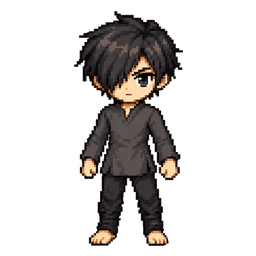
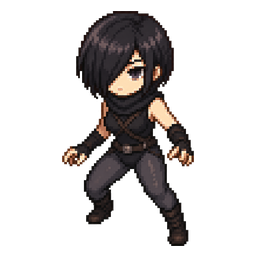
feat(art): cycle 53 — 14 직업 layered body 풀세트 + 성격 재작업
Tier 2 batch 5 완료 + 4 직업 personality 재작업 + 3 신규 직업 body.

추가/재작업된 body (8장):
- berserker (재작업): 광전사 — 야성/근육질/광기 표현
- assassin (재작업): 어쌔신 — 냉혹/은밀 stance
- paladin (재작업): 팔라딘 — 신성광/금발/축복 자세
- shadow-lord (재작업): 그림자 주군 — 적안/암흑 오라
- ranger, rogue (Tier 2 batch 5a 미합본분): 합본
- warlock (신규): 흑마법사 — 보라 마력
- chronomancer (신규): 시간술사 — 은백색/시계 모티프
- grand-mage (신규): 대마법사 — 별빛 후광

LAYERED_MANIFEST.body는 14 직업 전부 등록 (deploy 자동 갱신).
14 직업 = adventurer, archmage, assassin, berserker, chronomancer,
grand-mage, knight, mage, paladin, ranger, rogue, shadow-lord,
warlock, warrior — JOB_SPRITE_SLUG_MAP 전체 커버.

청소 (scripts/_archive/로 이동):
- analyze_avatar_outlines.py
- generate_avatar_equipment_overlays.mjs
- generate_avatar_style_equipment_assets.py
- generate_exact_avatar_style_equipment_items.py
- generate_exact_item_svgs.mjs
- normalize_avatar_outlines.py
모두 cycle 47 layered system 도입 후 사용 안 하는 레거시.

테스트 갱신: tests/layered-character.test.js
14 직업 전부 manifest 상주 시점에 맞춰 폴백/missing 검증을
임시 delete/add 패턴으로 재구성. 544 pass / 0 fail.

Changed region(s): [[0.2188, 0.0312, 0.7812, 0.9688]]

diff --git a/tests/layered-character.test.js b/tests/layered-character.test.js
@@ -20,99 +20,86 @@ test('player가 null/job 없으면 null', () => {
 });
 
 test('body manifest에 자산 없으면 null (폴백 동작)', () => {
-    // body 자산이 등록되지 않은 직업은 폴백
-    const result = resolveCharacterLayers({ job: '버서커', equip: {} });
-    assert.equal(result, null);
-});
-
-test('body manifest에 추가 시 layered 객체 반환', () => {
-    LAYERED_MANIFEST.body.add('adventurer');
+    // cycle 53 시점: 14 직업 전부 manifest 등록됨. 임시 제거 후 폴백 검증.
+    LAYERED_MANIFEST.body.delete('adventurer');
     try {
         const result = resolveCharacterLayers({ job: '모험가', equip: {} });
-        assert.ok(result);
-        assert.equal(result.body, '/assets/avatars/layers/body/adventurer.png');
-        assert.deepEqual(result.layerOrder, ['body']);
+        assert.equal(result, null);
     } finally {
-        LAYERED_MANIFEST.body.delete('adventurer');
+        LAYERED_MANIFEST.body.add('adventurer');
     }
+});
+
+test('body manifest에 자산 있으면 layered 객체 반환', () => {
+    // adventurer는 cycle 47부터 manifest 상주. 별도 add/delete 불필요.
+    const result = resolveCharacterLayers({ job: '모험가', equip: {} });
+    assert.ok(result);
+    assert.equal(result.body, '/assets/avatars/layers/body/adventurer.png');
+    assert.deepEqual(result.layerOrder, ['body']);
 });
 
 test('armor가 manifest에 있으면 layer에 추가', () => {
-    LAYERED_MANIFEST.body.add('adventurer');
-    LAYERED_MANIFEST.armor.add('leather');
-    try {
-        const result = resolveCharacterLayers({
-            job: '모험가',
-            equip: { armor: { type: 'armor', name: '가죽 갑옷' } },
-        });
-        assert.ok(result.armor);
-        assert.equal(result.armor, '/assets/avatars/layers/armor/leather.png');
-        assert.ok(result.layerOrder.includes('armor'));
-    } finally {
-        LAYERED_MANIFEST.body.delete('adventurer');
-        LAYERED_MANIFEST.armor.delete('leather');
-    }
+    // cycle 53 시점: leather는 manifest 상주. 별도 add 불필요.
+    const result = resolveCharacterLayers({
+        job: '모험가',
+        equip: { armor: { type: 'armor', name: '가죽 갑옷' } },
+    });
+    assert.ok(result.armor);
+    assert.equal(result.armor, '/assets/avatars/layers/armor/leather.png');
+    assert.ok(result.layerOrder.includes('armor'));
 });
 
 test('weapon이 manifest에 있으면 layer에 추가', () => {
-    LAYERED_MANIFEST.body.add('adventurer');
-    LAYERED_MANIFEST.weapon.add('dagger');
-    try {
-        const result = resolveCharacterLayers({
-            job: '모험가',
-            equip: { weapon: { type: 'weapon', name: '녹슨 단검' } },
-        });
-        assert.equal(result.weapon, '/assets/avatars/layers/weapon/dagger.png');
-        assert.ok(result.layerOrder.includes('weapon'));
-    } finally {
-        LAYERED_MANIFEST.body.delete('adventurer');
-        LAYERED_MANIFEST.weapon.delete('dagger');
-    }
+    // cycle 53 시점: dagger는 manifest 상주.
+    const result = resolveCharacterLayers({
+        job: '모험가',
+        equip: { weapon: { type: 'weapon', name: '녹슨 단검' } },
+    });
+    assert.equal(result.weapon, '/assets/avatars/layers/weapon/dagger.png');
+    assert.ok(result.layerOrder.includes('weapon'));
 });
 
 test('layerOrder는 back→front (cape→body→boots→armor→weapon→helmet)', () => {
-    LAYERED_MANIFEST.body.add('adventurer');
-    LAYERED_MANIFEST.armor.add('leather');
-    LAYERED_MANIFEST.weapon.add('dagger');
-    try {
-        const result = resolveCharacterLayers({
-            job: '모험가',
-            equip: {
-                weapon: { type: 'weapon', name: '녹슨 단검' },
-                armor: { type: 'armor', name: '가죽 갑옷' },
-            },
-        });
-        const idxBody = result.layerOrder.indexOf('body');
-        const idxArmor = result.layerOrder.indexOf('armor');
-        const idxWeapon = result.layerOrder.indexOf('weapon');
-        assert.ok(idxBody < idxArmor, 'body before armor');
-        assert.ok(idxArmor < idxWeapon, 'armor before weapon (weapon 손에 든 것이 가장 앞)');
-    } finally {
-        LAYERED_MANIFEST.body.delete('adventurer');
-        LAYERED_MANIFEST.armor.delete('leather');
-        LAYERED_MANIFEST.weapon.delete('dagger');
-    }
-});
-
-test('직업 정규화 (그림자 주군 → shadow-lord)', () => {
-    LAYERED_MANIFEST.body.add('shadow-lord');
-    try {
-        const result = resolveCharacterLayers({ job: '그림자 주군', equip: {} });
-        assert.equal(result.body, '/assets/avatars/layers/body/shadow-lord.png');
-    } finally {
-        LAYERED_MANIFEST.body.delete('shadow-lord');
-    }
-});
-
-test('getMissingLayers는 누락 자산 식별', () => {
-    const missing = getMissingLayers({
+    const result = resolveCharacterLayers({
         job: '모험가',
         equip: {
             weapon: { type: 'weapon', name: '녹슨 단검' },
             armor: { type: 'armor', name: '가죽 갑옷' },
         },
     });
-    assert.ok(missing.includes('body:adventurer'));
-    assert.ok(missing.includes('armor:leather'));
-    assert.ok(missing.includes('weapon:dagger'));
+    const idxBody = result.layerOrder.indexOf('body');
+    const idxArmor = result.layerOrder.indexOf('armor');
+    const idxWeapon = result.layerOrder.indexOf('weapon');
+    assert.ok(idxBody < idxArmor, 'body before armor');
+    assert.ok(idxArmor < idxWeapon, 'armor before weapon (weapon 손에 든 것이 가장 앞)');
+});
+
+test('직업 정규화 (그림자 주군 → shadow-lord)', () => {
+    // cycle 53 시점: shadow-lord는 manifest 상주.
+    const result = resolveCharacterLayers({ job: '그림자 주군', equip: {} });
+    assert.equal(result.body, '/assets/avatars/layers/body/shadow-lord.png');
+});
+
+test('getMissingLayers는 누락 자산 식별', () => {
+    // cycle 53 시점: 위 자산들은 모두 manifest 등록되어 missing이 아님.
+    // 임시로 삭제해서 missing 검출 검증.
+    LAYERED_MANIFEST.body.delete('adventurer');
+    LAYERED_MANIFEST.armor.delete('leather');
+    LAYERED_MANIFEST.weapon.delete('dagger');
+    try {
+        const missing = getMissingLayers({
+            job: '모험가',
+            equip: {
+                weapon: { type: 'weapon', name: '녹슨 단검' },
+                armor: { type: 'armor', name: '가죽 갑옷' },
+            },
+        });
+        assert.ok(missing.includes('body:adventurer'));
+        assert.ok(missing.includes('armor:leather'));
+        assert.ok(missing.includes('weapon:dagger'));
+    } finally {
+        LAYERED_MANIFEST.body.add('adventurer');
+        LAYERED_MANIFEST.armor.add('leather');
+        LAYERED_MANIFEST.weapon.add('dagger');
+    }
 });

diff --git a/src/utils/layeredCharacter.js b/src/utils/layeredCharacter.js
@@ -35,7 +35,7 @@ import { JOB_SPRITE_SLUG_MAP } from './avatarSpriteCandidates.js';
  */
 export const LAYERED_MANIFEST = Object.freeze({
     body:    new Set([
-        'adventurer', 'archmage', 'assassin', 'knight', 'mage', 'warrior',
+        'adventurer', 'archmage', 'assassin', 'berserker', 'chronomancer', 'grand-mage', 'knight', 'mage', 'paladin', 'ranger', 'rogue', 'shadow-lord', 'warlock', 'warrior',
     ]),    // imagegen 자산 받으면 키 등록
     cape:    new Set([
         'cloak',